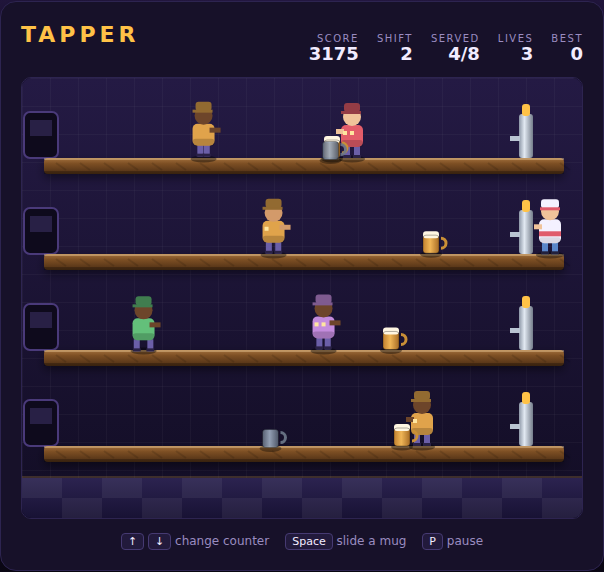
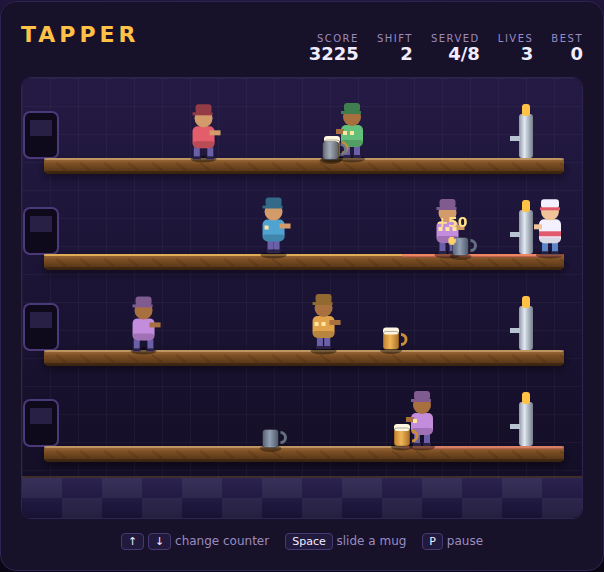
Light the active counter and warn when a patron closes on the taps
Two draw-only cues that keep a crowded bar readable: the counter the soda
jerk is standing at is lit amber along its top edge, and the tap end of a
counter glows red as a patron closes inside DANGER_ZONE.

Also refreshes the screenshot and updates the game-browser e2e card counts,
which were left at 105 while the catalogue grew to 109 with Tapper added.

Claude-Session: https://claude.ai/code/session_014Ytu5WXN5FBTFc1hdeW4r6

diff --git a/game-browser/e2e/game-browser.spec.ts b/game-browser/e2e/game-browser.spec.ts
@@ -24,7 +24,7 @@ test.describe('Game Browser', () => {
   test('should display games in a grid', async ({ page }) => {
     // Wait for games to load
     const gameCards = page.locator('app-game-card');
-    await expect(gameCards).toHaveCount(105);
+    await expect(gameCards).toHaveCount(109);
 
     // Check first game card structure
     const firstCard = gameCards.first();
@@ -33,9 +33,9 @@ test.describe('Game Browser', () => {
   });
 
   test('should have search functionality', async ({ page }) => {
-    // Initial state: all 105 games visible
+    // Initial state: all 109 games visible
     let gameCards = page.locator('app-game-card');
-    await expect(gameCards).toHaveCount(105);
+    await expect(gameCards).toHaveCount(109);
 
     // Search for "Tetris"
     const searchInput = page.locator('input[placeholder="Search games..."]');
@@ -96,7 +96,7 @@ test.describe('Game Browser', () => {
     // Search should be empty and all games visible
     await expect(searchInput).toHaveValue('');
     const gameCards = page.locator('app-game-card');
-    await expect(gameCards).toHaveCount(105);
+    await expect(gameCards).toHaveCount(109);
   });
 
   test('should reset category filter', async ({ page }) => {
@@ -107,7 +107,7 @@ test.describe('Game Browser', () => {
     // Games should be filtered
     let gameCards = page.locator('app-game-card');
     const filteredCount = await gameCards.count();
-    expect(filteredCount).toBeLessThan(105);
+    expect(filteredCount).toBeLessThan(109);
 
     // Click Reset button
     const resetButton = page.locator('button:has-text("Reset")');
@@ -115,7 +115,7 @@ test.describe('Game Browser', () => {
 
     // All games should be visible again
     gameCards = page.locator('app-game-card');
-    await expect(gameCards).toHaveCount(105);
+    await expect(gameCards).toHaveCount(109);
   });
 
   test('should display game card details', async ({ page }) => {

diff --git a/Tapper/game.js b/Tapper/game.js
@@ -39,6 +39,7 @@ const PLAYER_X = 528;
 
 const COUNTER_H = 16;       // drawn thickness of a counter slab
 const FLOOR_Y = 400;        // decorative tiled floor below the bottom counter
+const DANGER_ZONE = 90;     // how far out from the taps a patron lights up red
 
 // --- Speeds --------------------------------------------------------------
 const MUG_SPEED = 220;      // px/s, full mug sliding toward the door
@@ -582,6 +583,24 @@ function drawCounter(lane) {
         ctx.moveTo(x, y + 5);
         ctx.lineTo(x + 10, y + COUNTER_H - 4);
         ctx.stroke();
+    }
+
+    // The counter you are standing at is lit, so it stays findable when the
+    // bar is crowded.
+    if (lane === player.lane && state !== 'idle') {
+        ctx.fillStyle = 'rgba(255, 194, 71, 0.5)';
+        ctx.fillRect(left, y, w, 2);
+    }
+
+    // A patron closing on the taps lights the end of their counter red.
+    const threat = patrons.reduce(
+        (near, p) => (p.lane === lane && p.x > near ? p.x : near),
+        -Infinity
+    );
+    if (threat > GRAB_X - DANGER_ZONE) {
+        const heat = (threat - (GRAB_X - DANGER_ZONE)) / DANGER_ZONE;
+        ctx.fillStyle = `rgba(255, 93, 115, ${(0.25 + heat * 0.5).toFixed(3)})`;
+        ctx.fillRect(GRAB_X - DANGER_ZONE, y, left + w - (GRAB_X - DANGER_ZONE), 3);
     }
 }
 

diff --git a/Tapper/DESIGN.md b/Tapper/DESIGN.md
@@ -27,6 +27,7 @@ The canvas is 560 × 440. Four counters run horizontally across it:
 | `CATCH_X` | 486 | an empty mug reaching here is caught (if you're on that lane) or smashes |
 | `PLAYER_X` | 528 | where the soda jerk stands |
 | `FLOOR_Y` | 400 | top of the tiled floor strip below the bottom counter |
+| `DANGER_ZONE` | 90 | how close a patron gets before their counter lights up red |
 
 Everything moves along the x axis only; the lane index is the y axis. That
 keeps collision detection to a one-dimensional comparison inside a lane and
@@ -107,6 +108,9 @@ bindings, so a Playwright test can read `state`, `patrons`, `mugs` or call
 - **`draw()`** — pure rendering; it never mutates simulation state. Everything
   on a counter is drawn from the same baseline (`LANE_Y[lane]`) with a contact
   shadow, so figures and mugs sit on the wood rather than floating over it.
+  Two cues keep a crowded bar readable: the counter you're standing at is lit
+  in amber, and the tap end of a counter glows red as a patron closes inside
+  `DANGER_ZONE`.
 - **`frame(now)`** — the `requestAnimationFrame` loop: `step` (only while
   `autoStep` is true) then `draw`.
 

diff --git a/Tapper/README.md b/Tapper/README.md
@@ -54,6 +54,11 @@ Your best score is kept in the browser's local storage.
 
 Mouse or touch also works: click a counter to move to it, click again to serve.
 
+## Reading the bar
+
+- The counter you're standing at is lit in amber along its top edge.
+- The tap end of a counter glows red when a patron is getting close to you.
+
 ## Tips
 
 - Empties are the real clock. Every mug you pour is a mug you have to be
